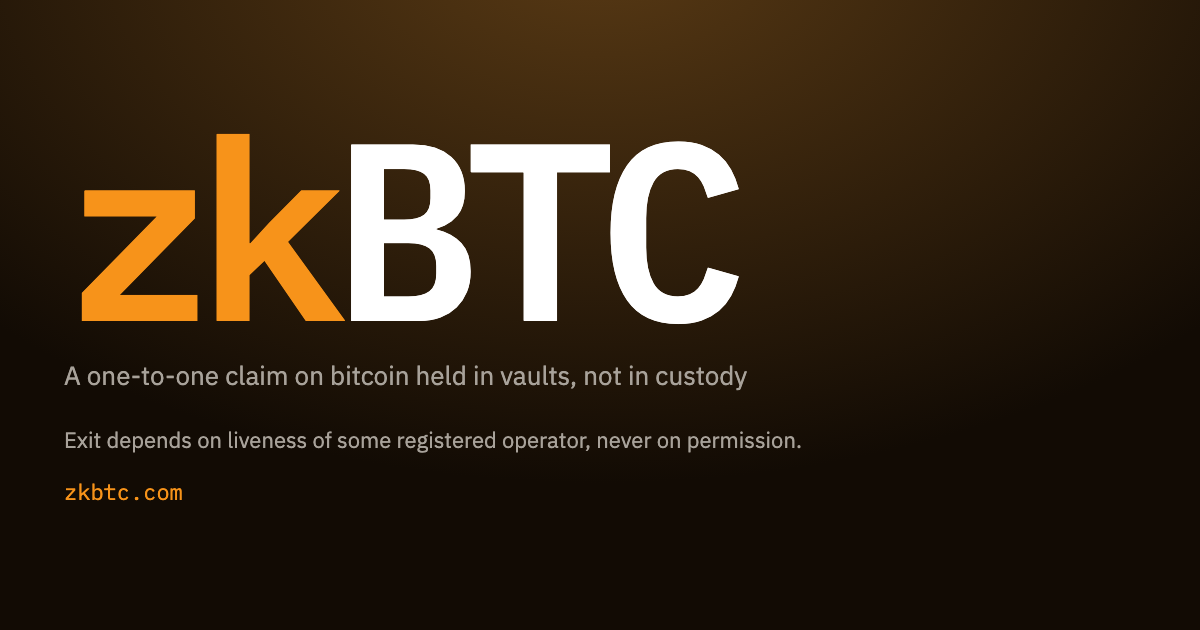
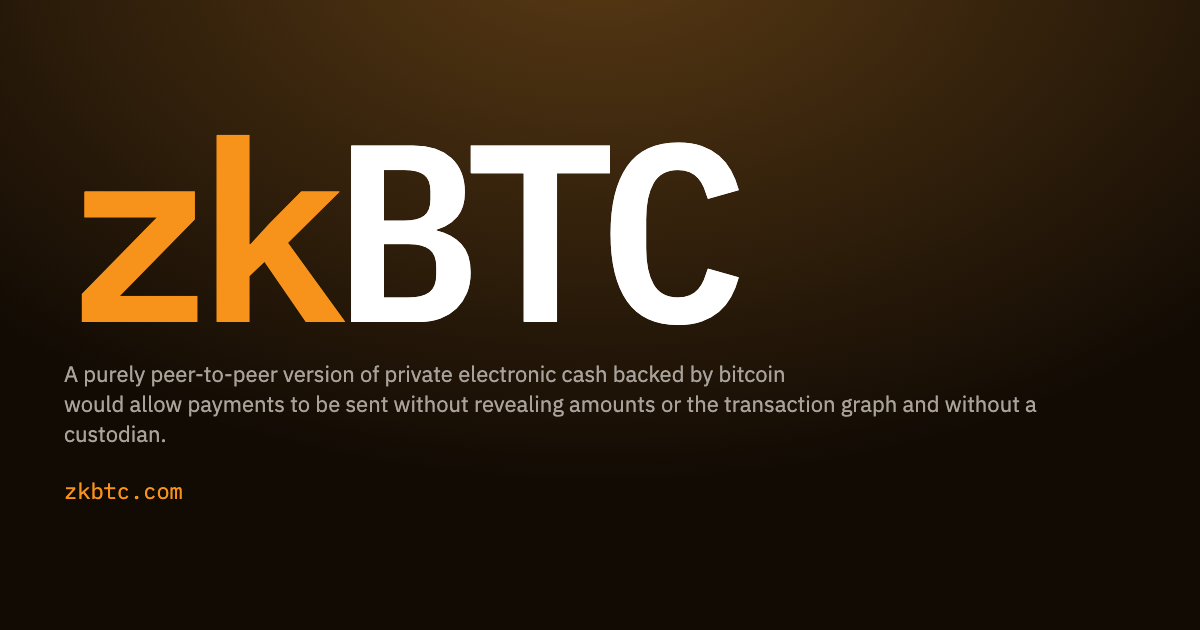
Ship the chosen preview card and state the page's sources exactly
An independent cross-vendor review found that site/og.png still carried the
card from before the text was rewritten: the image read "A one-to-one claim on
bitcoin held in vaults" while og:image:alt and og:description described the
peer-to-peer sentence the page now uses. The artifact this directory exists to
ship contradicted its own metadata. The card is now the one the page describes.

The same review found four claims in site/README.md that did not hold, and all
four were correct:

- The status line quotation began one sentence too late. The paper's preceding
  sentence, "The guarantees are conditional on the enumerated assumptions", is
  what qualifies everything after it; the page now carries it.
- The kicker was listed as a quotation. It is not: the ordinal was dropped and
  an article inserted. It is now listed under strings that are not quotations,
  with both edits named. Its earlier justification cited issuance_version,
  which appears nowhere in the whitepaper -- that reasoning came from the
  specification and has been removed.
- Two line references were off by two, and the total size was stale.
- The file list claimed inline SVG, of which the page contains none, and
  described four font weights where three distinct weights sit in four files.

Every remaining line of the README was re-measured against the files rather
than carried over.

diff --git a/site/index.html b/site/index.html
@@ -154,7 +154,7 @@
     margin: 0 0 24px;
     padding: 10px 0 10px 14px;
     border-left: 4px solid var(--accent);
-    font-size: 16px;
+    font-size: 15px;
     line-height: 1.45;
     color: var(--ink);
     min-width: 0;
@@ -236,7 +236,7 @@
     .kicker { font-size: 14px; margin-bottom: 10px; }
     .lede { font-size: 16px; margin-bottom: 10px; }
     .lede-2 { margin-bottom: 14px; }
-    .status { font-size: 16px; margin-bottom: 18px; }
+    .status { font-size: 15px; margin-bottom: 18px; }
     footer { margin-top: 22px; }
   }
 
@@ -252,7 +252,7 @@
       <h1><span class="zk">zk</span>BTC</h1>
       <p class="lede">A purely peer-to-peer version of private electronic cash backed by bitcoin would allow payments to be sent without revealing amounts or the transaction graph and without a custodian.</p>
       <p class="lede lede-2">zkBTC is a bitcoin-backed token on that protocol whose reserve is secured by fraud proofs rather than custody.</p>
-      <p class="status">This paper is an informative introduction; the design is specified normatively in <a href="https://github.com/zk-coins/zkbtc/blob/main/spec/ZKBTC_TOKEN.md" title="zkBTC token standard" aria-label="zkBTC token standard">[8]</a> and awaits implementation and external audit.</p>
+      <p class="status">The guarantees are conditional on the enumerated assumptions. This paper is an informative introduction; the design is specified normatively in <a href="https://github.com/zk-coins/zkbtc/blob/main/spec/ZKBTC_TOKEN.md" title="zkBTC token standard" aria-label="zkBTC token standard">[8]</a> and awaits implementation and external audit.</p>
       <div class="actions">
         <a class="btn" href="/white-paper/">Whitepaper (PDF)</a>
         <a class="text-link" href="https://github.com/zk-coins/zkbtc/blob/main/spec/ZKBTC_TOKEN.md">zkBTC Token Standard</a>

diff --git a/site/README.md b/site/README.md
@@ -11,44 +11,57 @@ entrance that carries the metadata and points to the paper.
 
 ## What is here
 
-| File | Role |
-| --- | --- |
-| `index.html` | The page. Self-contained: CSS inline, SVG inline, no external requests, no JavaScript. |
-| `og.png` | Open Graph preview card, 1200×630. |
-| `fonts/` | IBM Plex Sans and IBM Plex Mono, subset to the four weights the page uses. |
-| `fonts/LICENSE.txt` | SIL Open Font License 1.1, under which IBM Plex is distributed. |
+| File | Bytes | Role |
+| --- | ---: | --- |
+| `index.html` | 8,045 | The page. Self-contained: CSS inline, no images, no JavaScript, no external requests. |
+| `og.png` | 244,397 | Open Graph preview card, 1200×630. |
+| `fonts/*.woff2` | 67,824 | IBM Plex Sans 400 and IBM Plex Mono 400/600/700 — four files, three distinct weights. |
+| `fonts/LICENSE.txt` | 4,429 | SIL Open Font License 1.1, under which IBM Plex is distributed. |
+| `README.md` | this file | |
 
-Total: 312 KB.
+Total: 327,584 bytes (320 KiB), of which the card is 75 %.
 
 ## Where the text comes from
 
-Every statement on the page and on the card is a verbatim quotation from
+Every **statement** on the page and on the card is a verbatim quotation from
 [`../whitepaper/zkbtc-whitepaper.typ`](../whitepaper/zkbtc-whitepaper.typ). Nothing is
-paraphrased, summarised, or simplified, and no condition attached to a claim in the paper has
-been dropped.
+paraphrased, and no condition the paper attaches to a claim has been dropped. Line numbers refer
+to that file at commit `bb13a49`; the paper wraps sentences across lines, so a range is given
+where a quotation spans several.
 
-| Element | Source line | Note |
+| Element | Source | Verbatim? |
 | --- | --- | --- |
-| `<title>`, `og:title` | 6 | The paper's own title. |
-| Kicker | 648–649 | `zkBTC is token standard 3 on the zkCoins transfer system` — the ordinal `3` is omitted, as it is an internal identifier (`issuance_version == 3`) and carries no meaning for a first-time reader. |
-| First paragraph, and the card | 110–112 | Verbatim, including `would allow` — the paper's conditional phrasing is preserved. |
-| Second paragraph | 150–151 | Verbatim. |
-| Status line | 862–864 | Verbatim, including the citation marker `[8]`, which is rendered as a link to the normative specification. |
-| `og:description`, `og:image:alt` | 110–112 | Same sentence as the card, so the alt text describes what the image actually shows. |
+| `<title>`, `og:title` | line 6 | Yes — the paper's own title. |
+| First paragraph, the card, `og:description`, `og:image:alt` | lines 110–112 | Yes, including the conditional `would allow`. |
+| Second paragraph | lines 150–151 | Yes. |
+| Status line | lines 863–866 | Yes, and it starts one sentence earlier than the obvious cut, at *"The guarantees are conditional on the enumerated assumptions"* — that sentence carries the qualification and is not dropped. The citation marker `[8]` is kept and rendered as a link to the normative specification, so it resolves instead of dangling. |
 
-The two action labels are the only strings that are not quotations: `Whitepaper (PDF)` is a
-file-type label, and `zkBTC Token Standard` is the reference title from line 896–897 in title
-case.
+### Strings that are **not** quotations
+
+These are labels and navigation, and they are listed here so the claim above stays exact:
+
+| String | Where it comes from |
+| --- | --- |
+| Kicker: `zkBTC is a token standard on the zkCoins transfer system` | Adapted from line 648, which reads `zkBTC is token standard 3 on the zkCoins transfer system`. Two edits: the ordinal `3` is dropped, and the article `a` is inserted to keep the sentence grammatical. The ordinal identifies the standard inside the zkCoins protocol and means nothing to a first-time reader arriving at the domain. This is an adaptation, not a quotation. |
+| `zkBTC` (heading and card) | The product name. |
+| `Whitepaper (PDF)` | File-type label. |
+| `zkBTC Token Standard` | The reference title at lines 898–899 (`"zkBTC token standard"`), in title case. Also used as the `title` and `aria-label` of the `[8]` link. |
+| `zkCoins protocol`, `Repository` | Footer link labels. |
 
 ## Verification
 
-Measured with headless Chromium at the time of writing:
+Measured with headless Chromium against this exact content:
 
 - The page fits without scrolling at 1440×900 and at 375×812.
 - No horizontal overflow at 375, 768 or 1440 px.
 - The card is exactly 1200×630, has no overflow, no text below 22 px, and keeps at least 64 px
   clear of every edge.
-- All four outbound links answer `200`.
+- All four `@font-face` rules declare the weight their file actually contains.
+- The card image was decoded and compared against `og:image:alt`; they describe the same text.
+- The page contains five links to four distinct targets: `/white-paper/` (same origin), the
+  specification (twice — the action and the `[8]` marker), `zkcoins.com`, and the repository.
+  All four targets answer `200`.
+- `og.png` carries no text, EXIF or XMP chunks; no local paths appear in any file here.
 
 ## Deployment
 
